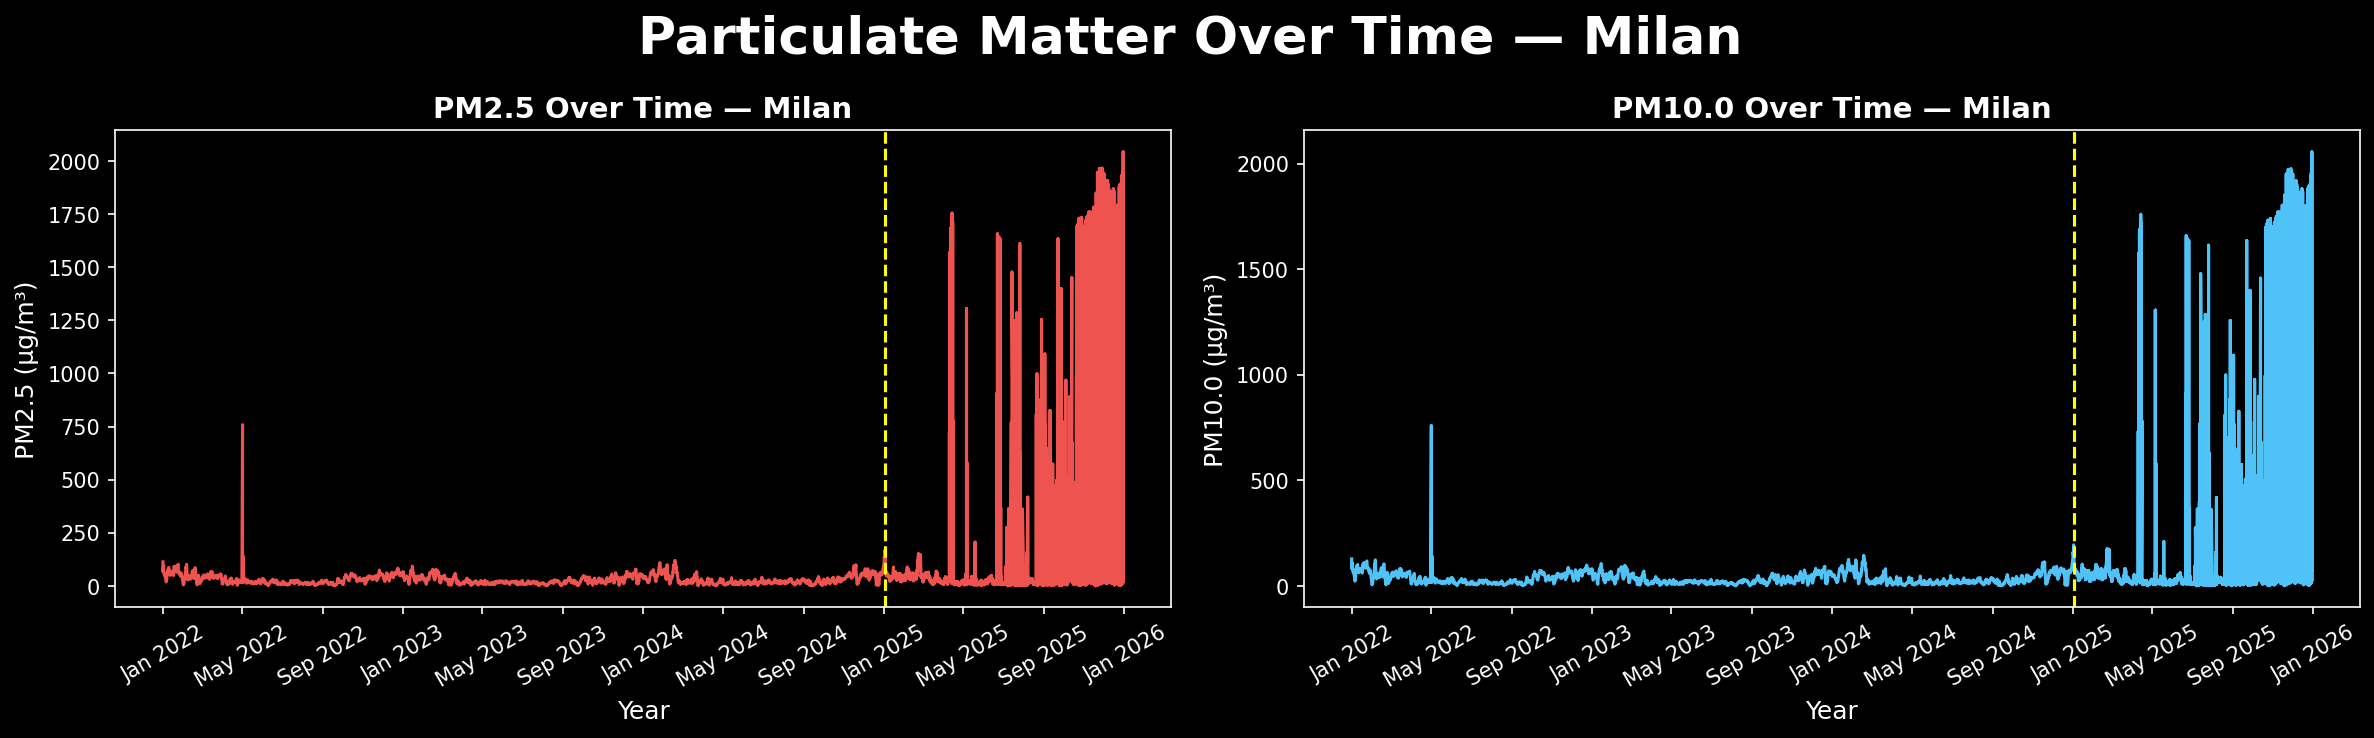
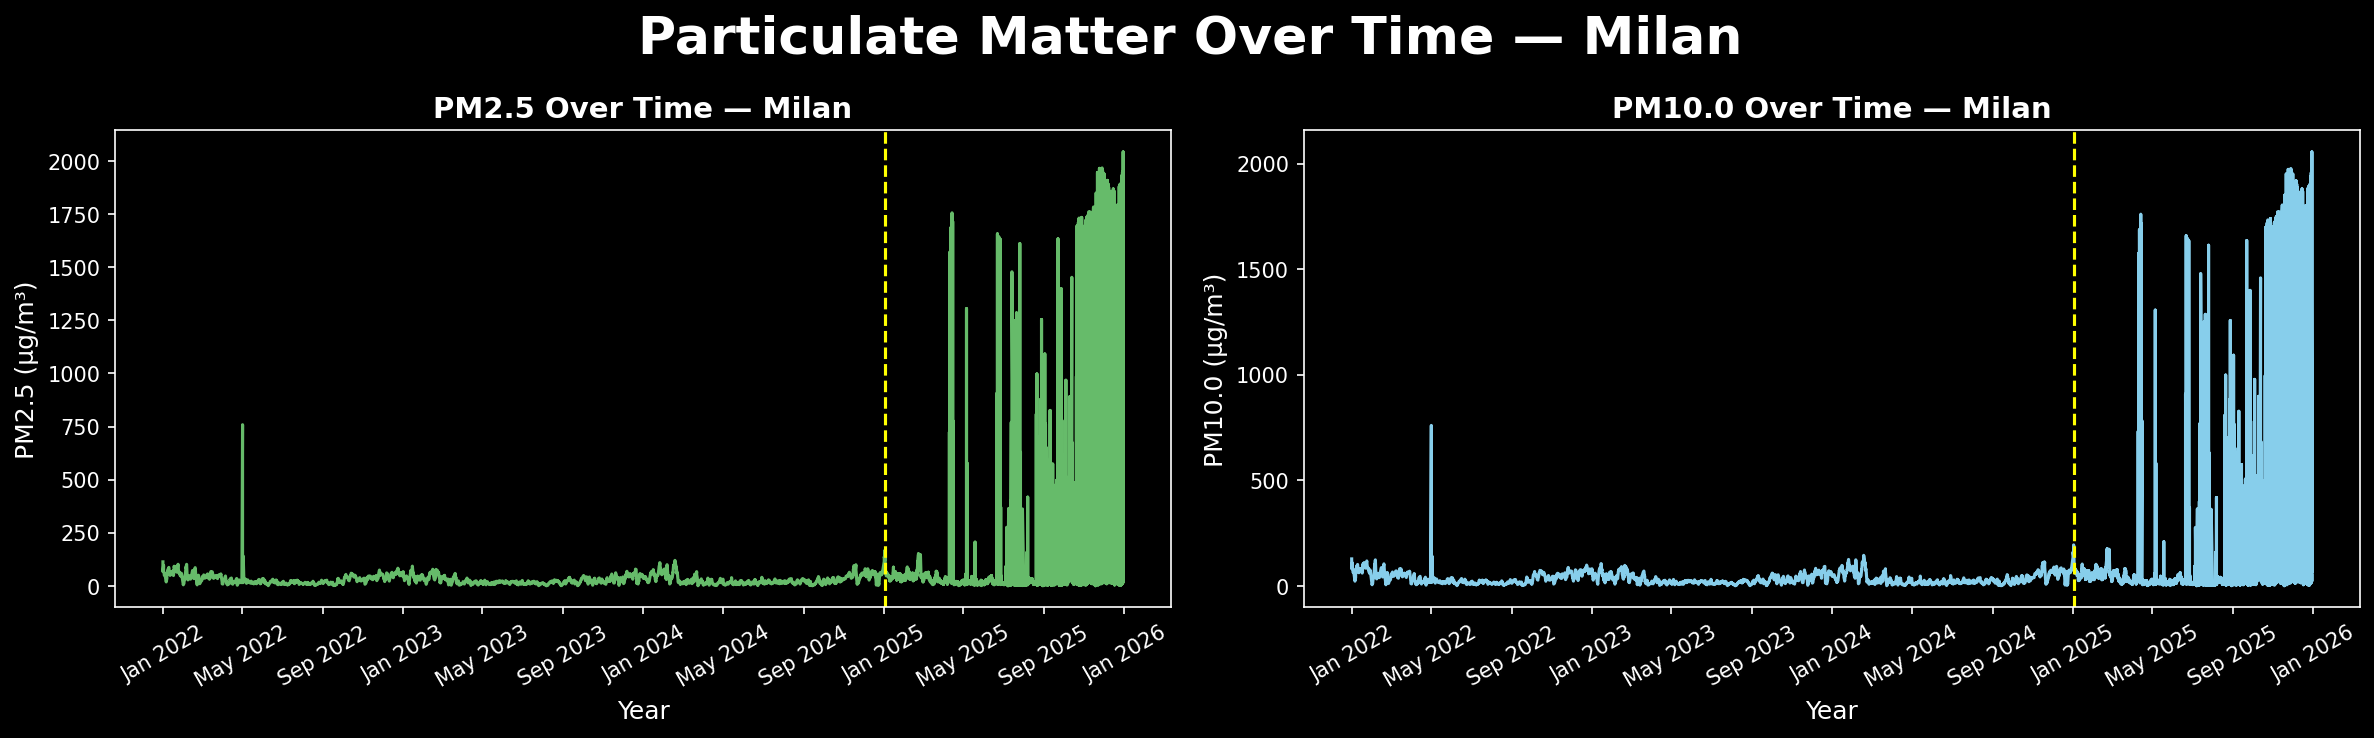
color scheme updated

Changed region(s): [[0.5611, 0.2493, 0.9975, 0.8103], [0.0623, 0.2182, 0.4987, 0.8103]]

diff --git a/run_notebooks.py b/run_notebooks.py
@@ -1,0 +1,41 @@
+"""execute notebooks in order and regenerate figures."""
+import json, os, sys, traceback
+import matplotlib
+matplotlib.use('Agg')
+
+BASE = os.path.dirname(os.path.abspath(__file__))
+
+notebooks = [
+    ('Analysis', 'pp_analysis_milan.ipynb'),
+    ('Analysis', 'pp_analysis_turin.ipynb'),
+    ('Regression', 'pp_regression.ipynb'),
+]
+
+for folder, nb_name in notebooks:
+    nb_path = os.path.join(BASE, folder, nb_name)
+    nb_dir  = os.path.join(BASE, folder)
+    print(f'\n=== running {folder}/{nb_name} ===')
+
+    with open(nb_path, 'r', encoding='utf-8') as f:
+        nb = json.load(f)
+
+    # run cells in the notebook's own directory so relative paths resolve
+    os.chdir(nb_dir)
+
+    ns = {'__name__': '__main__'}
+
+    for i, cell in enumerate(nb['cells']):
+        if cell['cell_type'] != 'code':
+            continue
+        src = ''.join(cell['source'])
+        if not src.strip():
+            continue
+        try:
+            exec(compile(src, f'cell_{i}', 'exec'), ns)
+        except Exception as e:
+            print(f'  cell {i} ERROR: {e}')
+            traceback.print_exc()
+
+    print(f'  done')
+
+print('\nall notebooks executed — figures updated')
